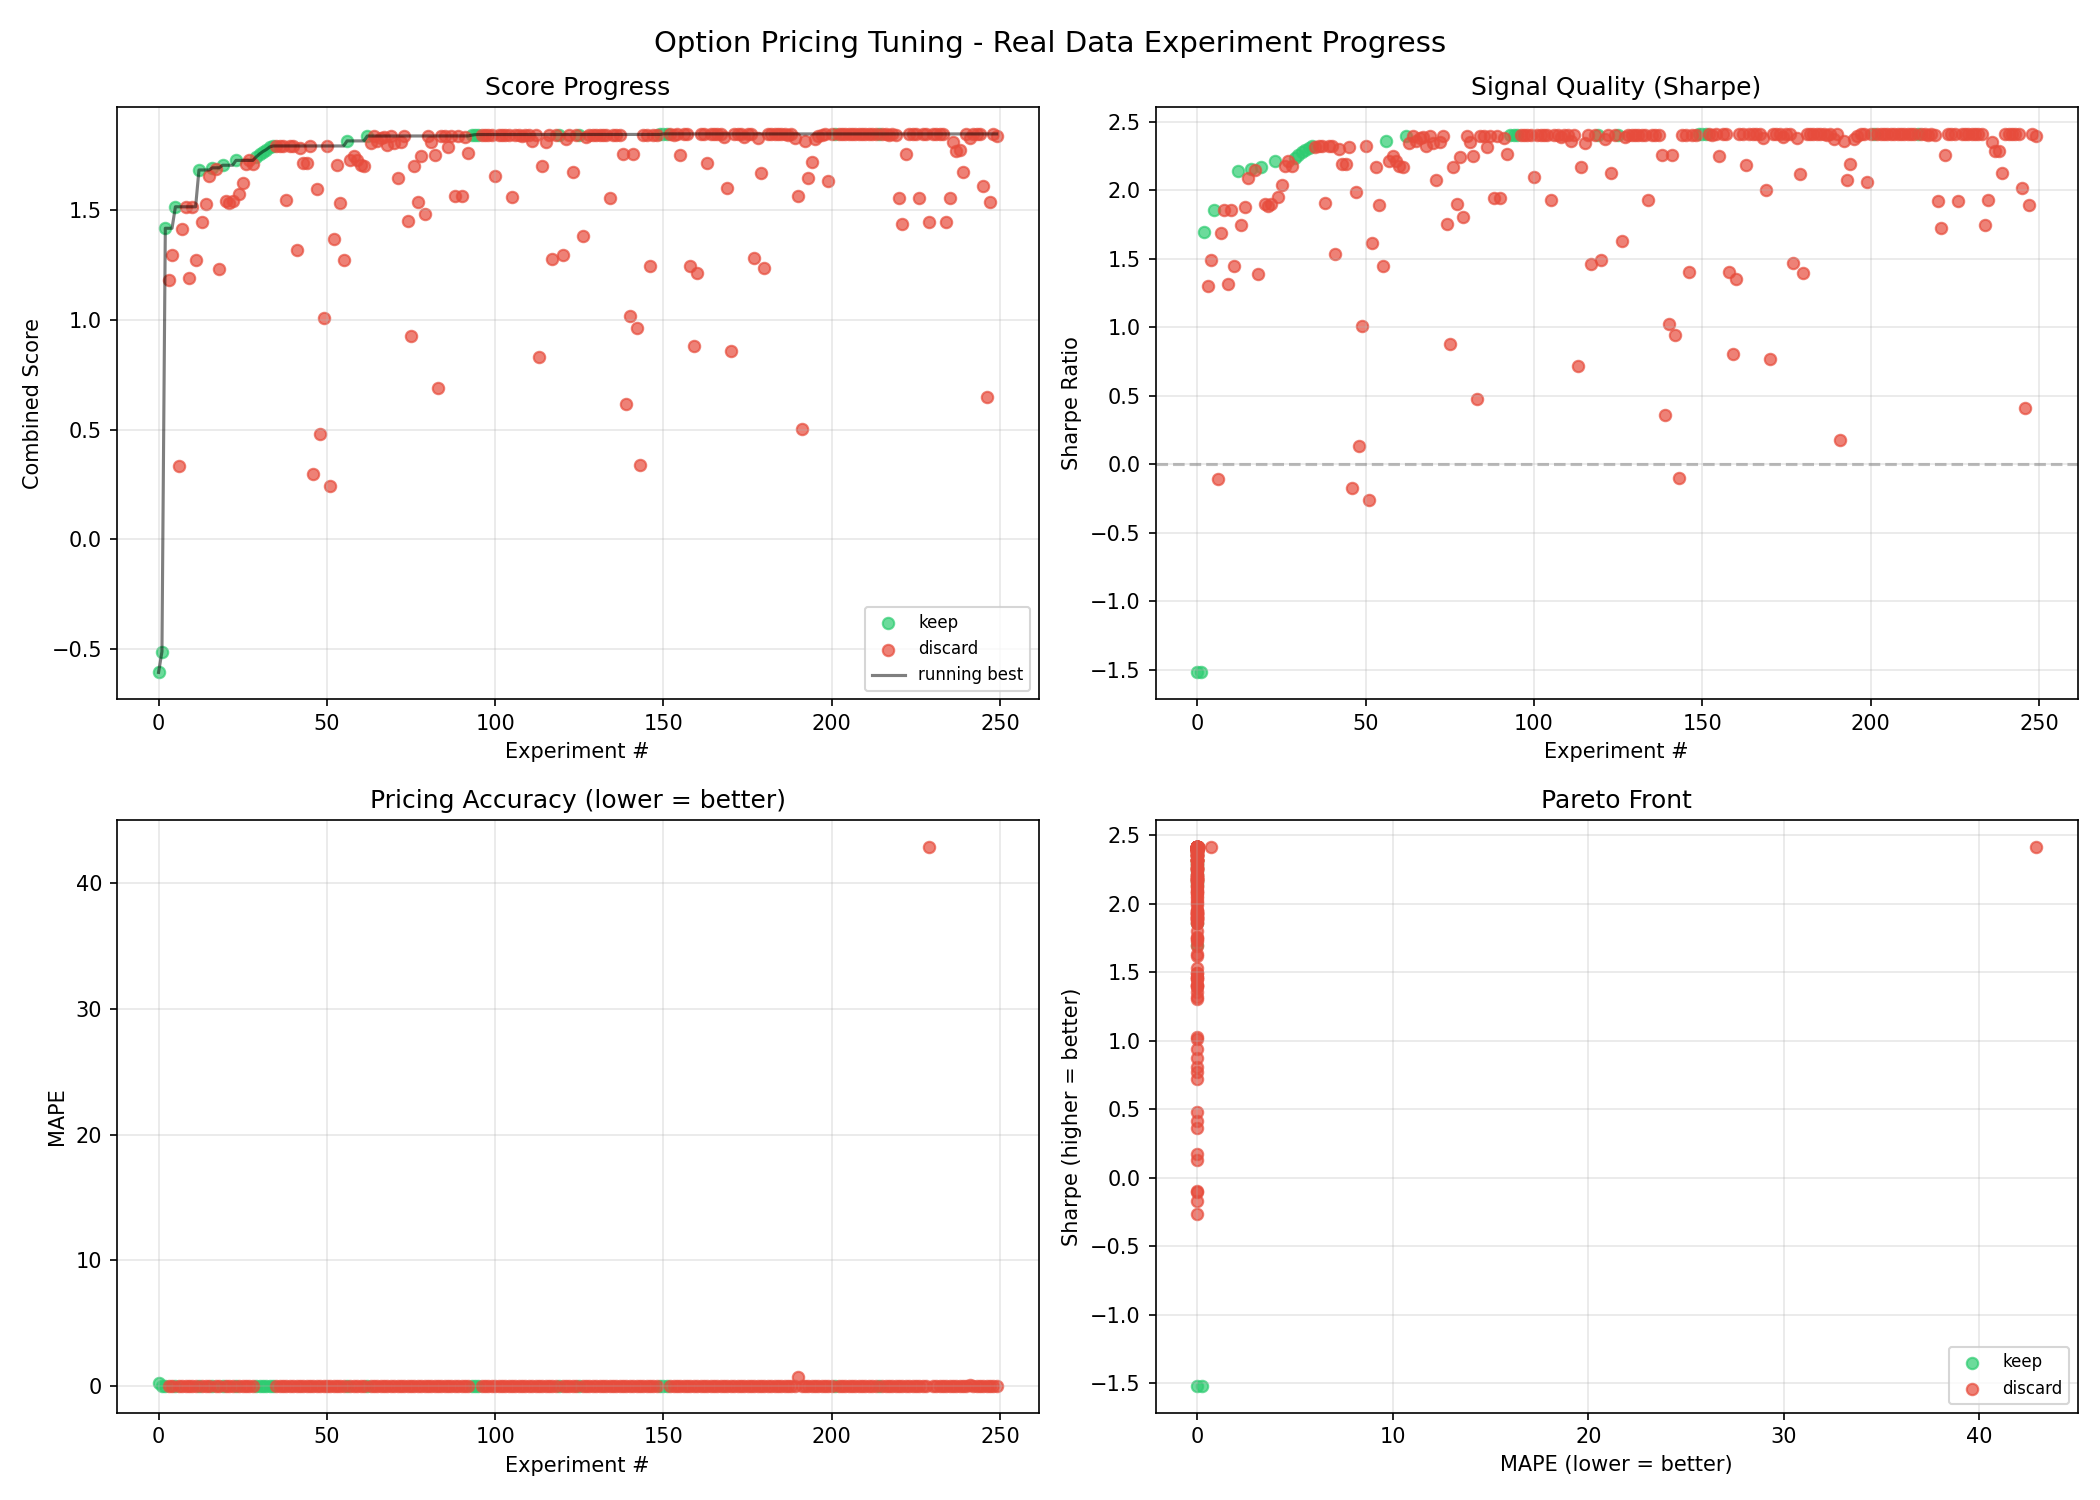
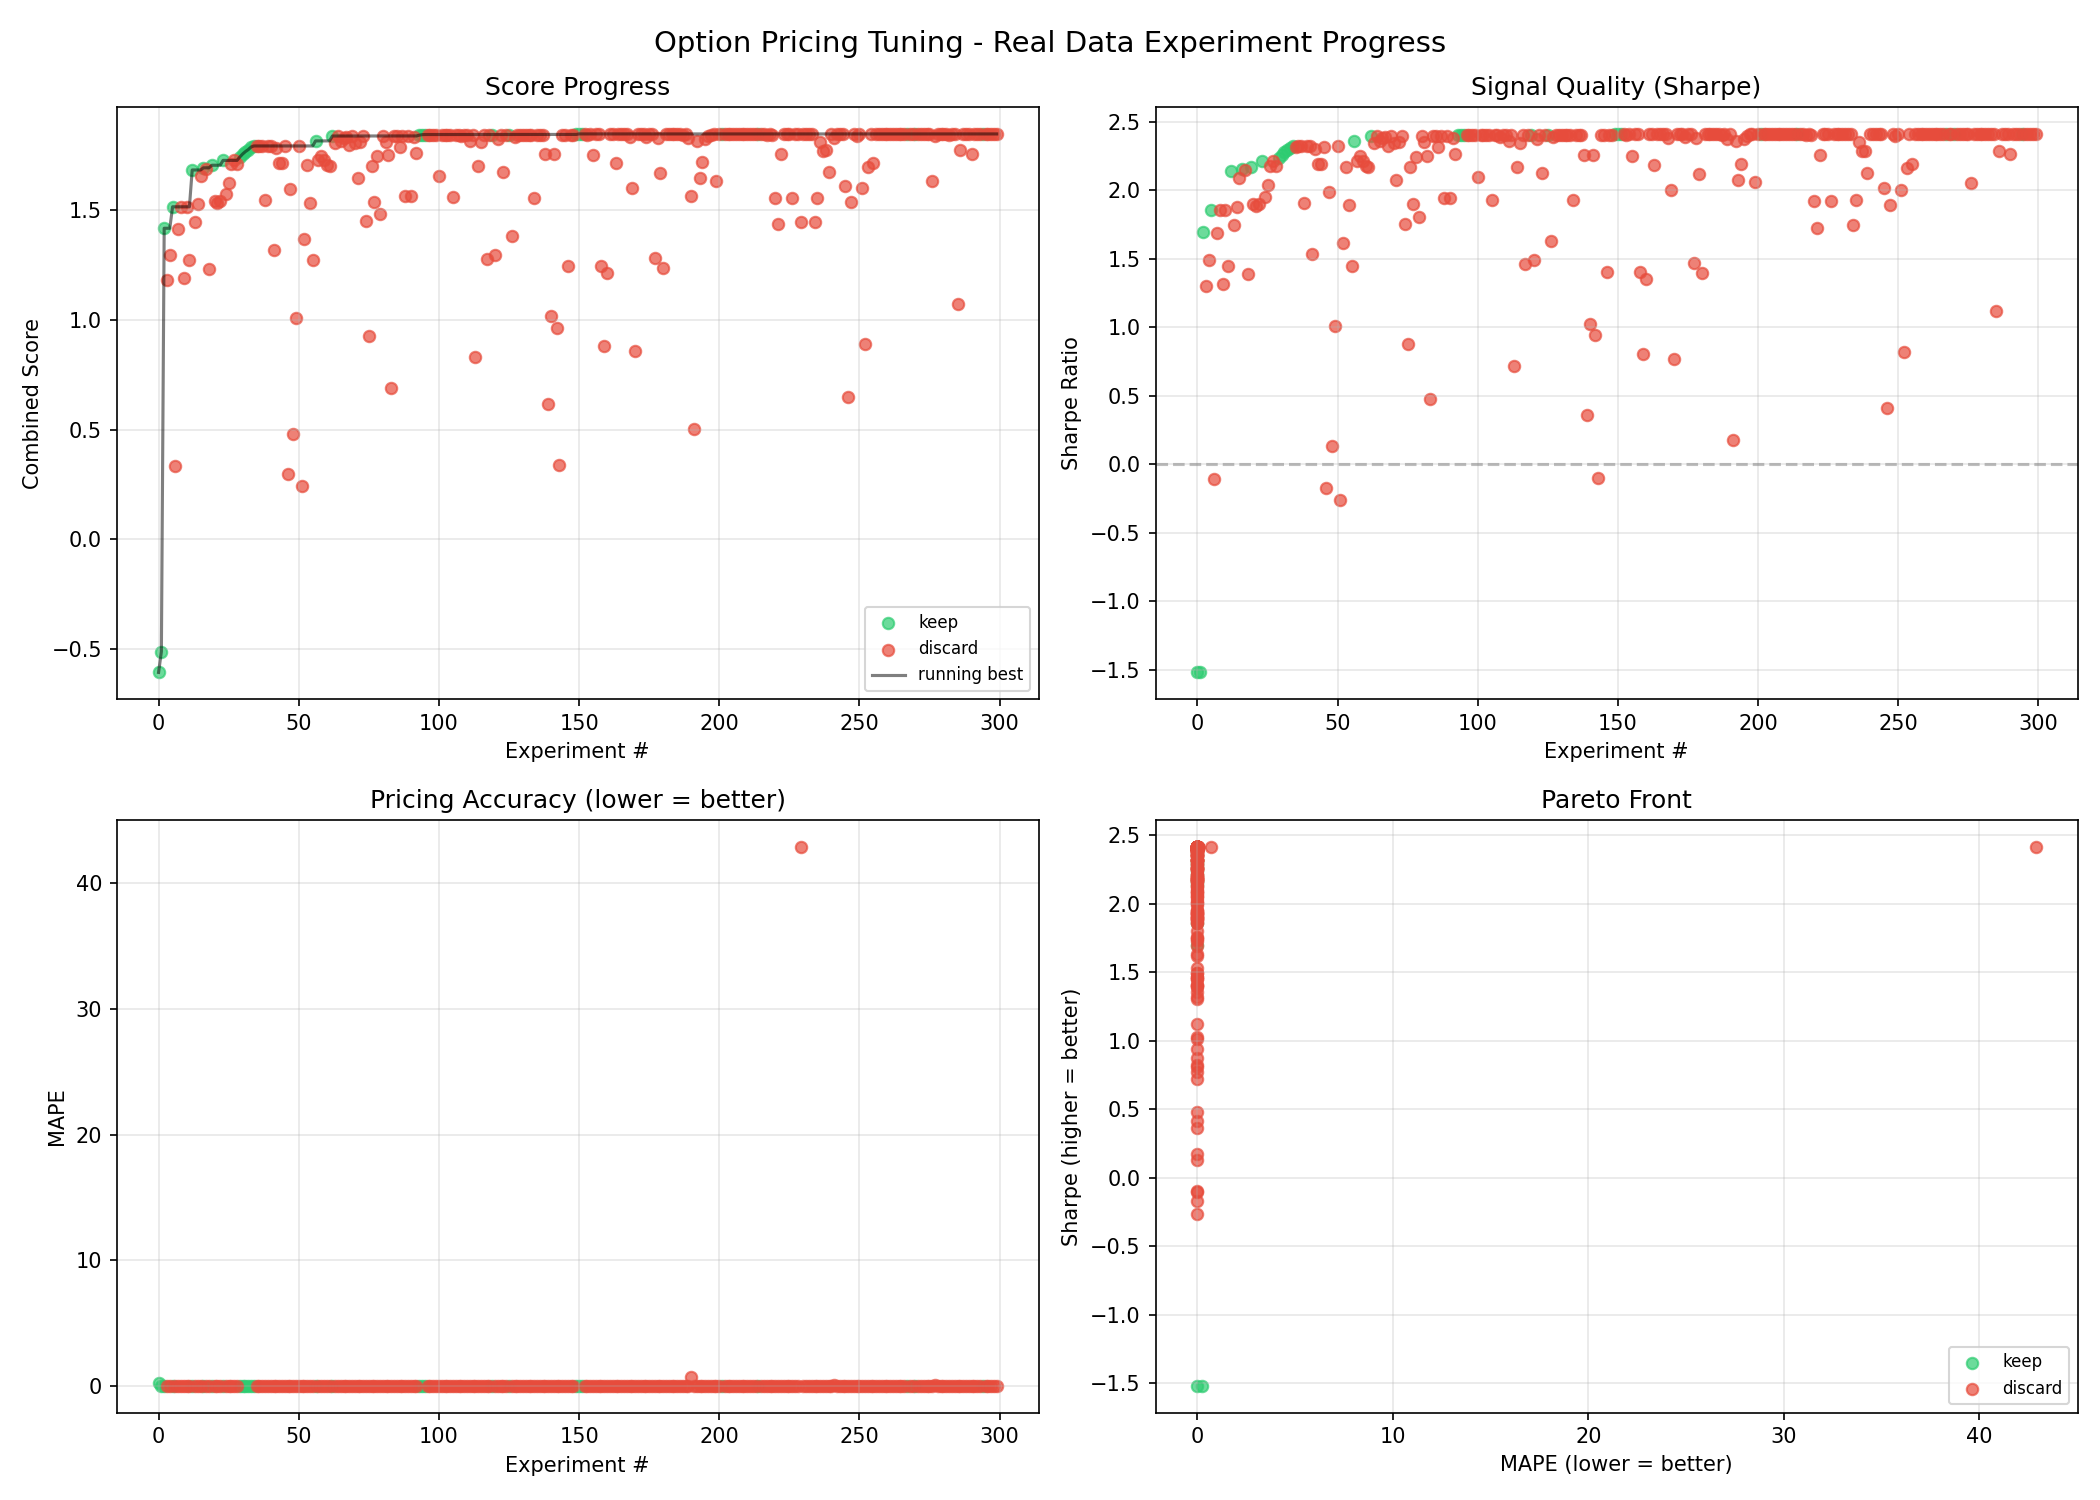
Update progress plot and README

diff --git a/README.md b/README.md
@@ -11,10 +11,10 @@ signals using **real stock market data** from Yahoo Finance.
 |---|---|
 | Combined Score | 1.8464 |
 | Sharpe Ratio | 2.4121 |
-| MAPE | 0.002016 |
+| MAPE | 0.002006 |
 | Win Rate | 100.0% |
 | Trades | 14 |
-| Experiments | 250 (26 kept) |
+| Experiments | 300 (29 kept) |
 
 ## How It Works
 
